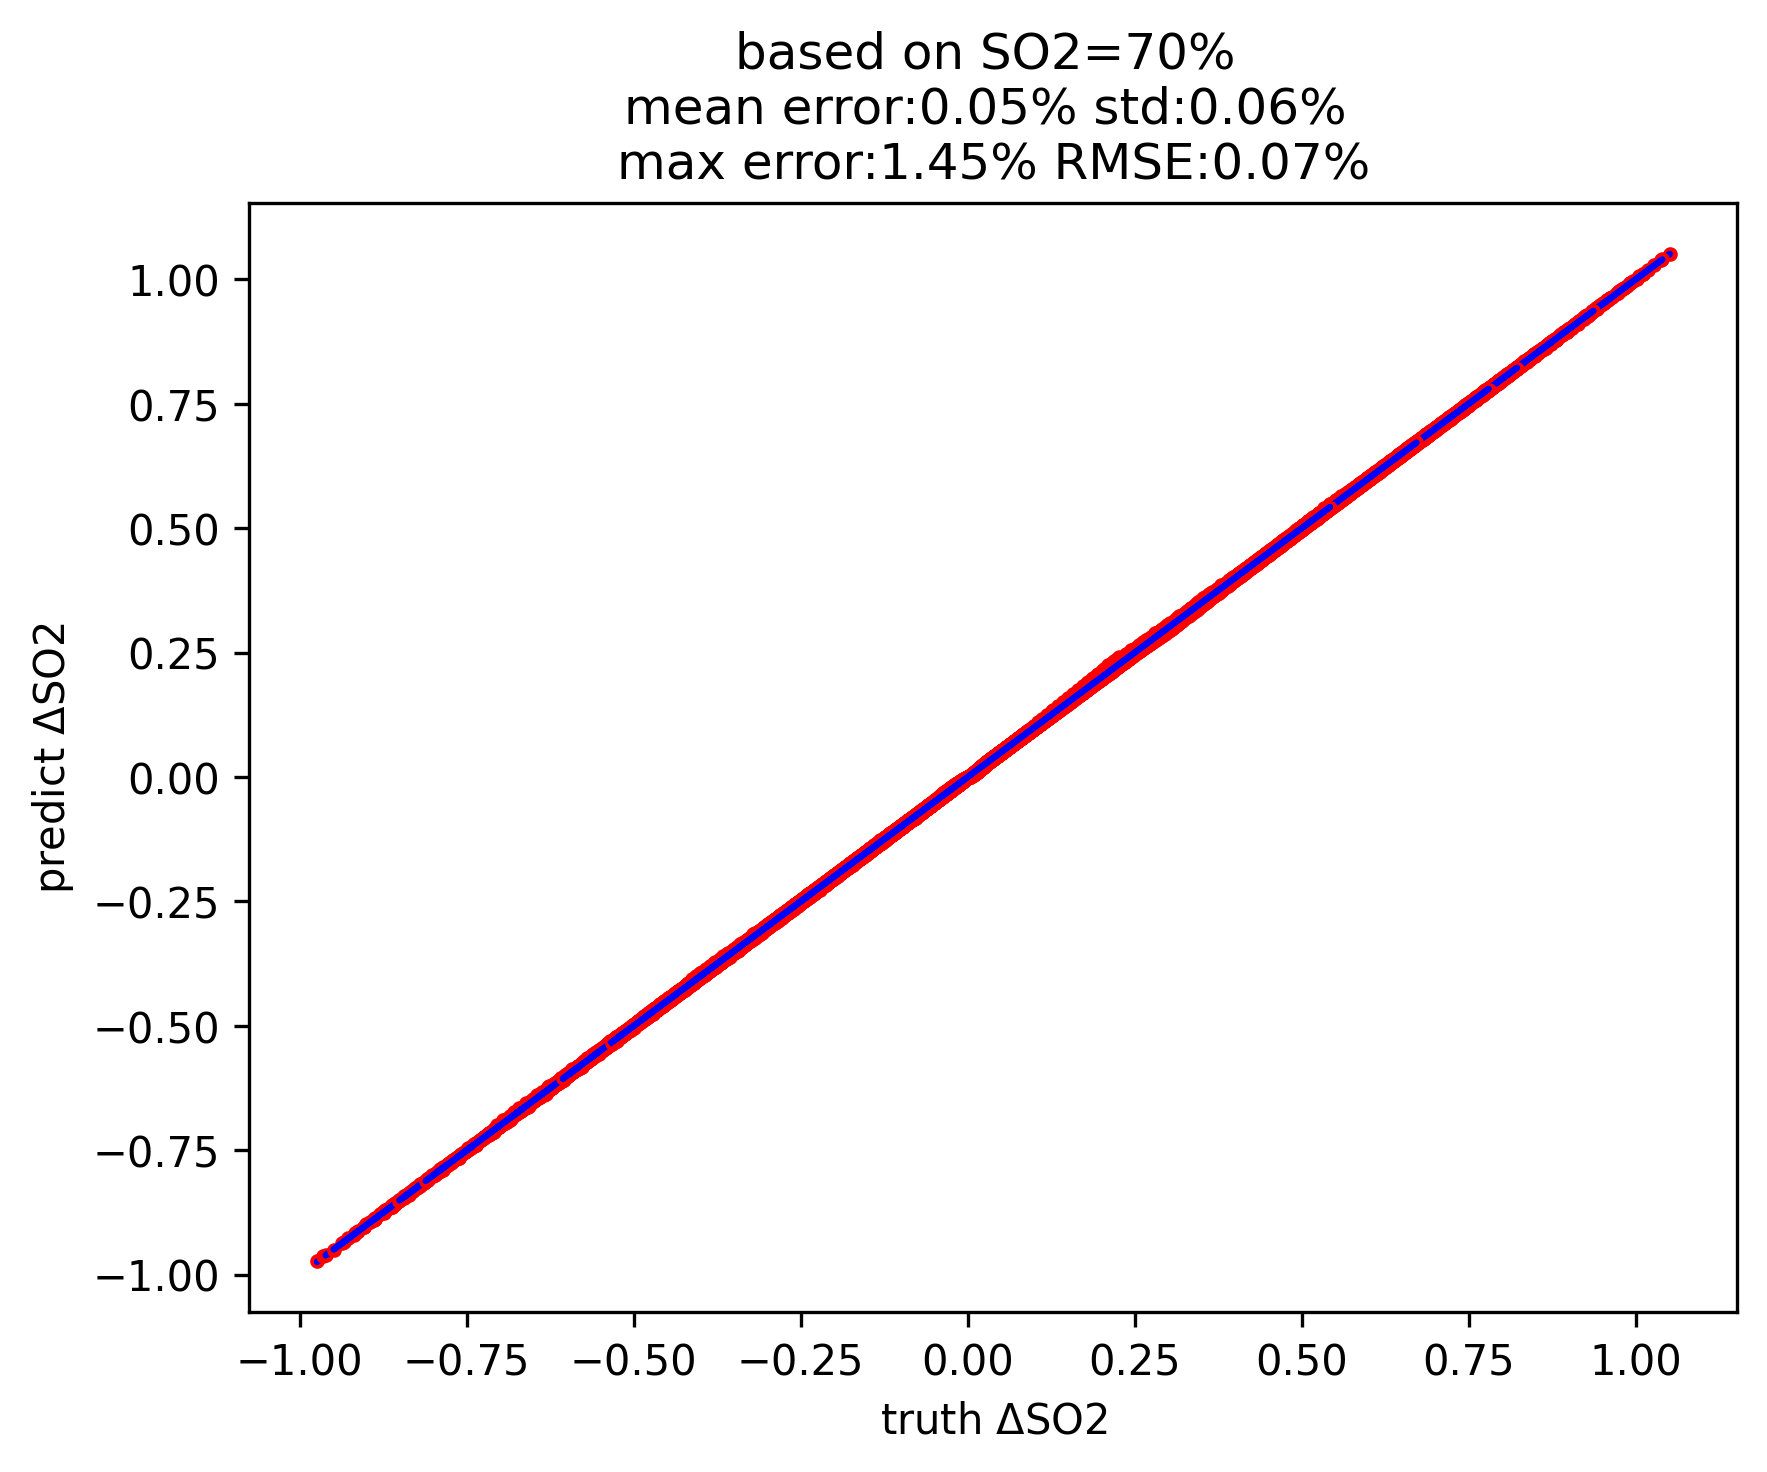
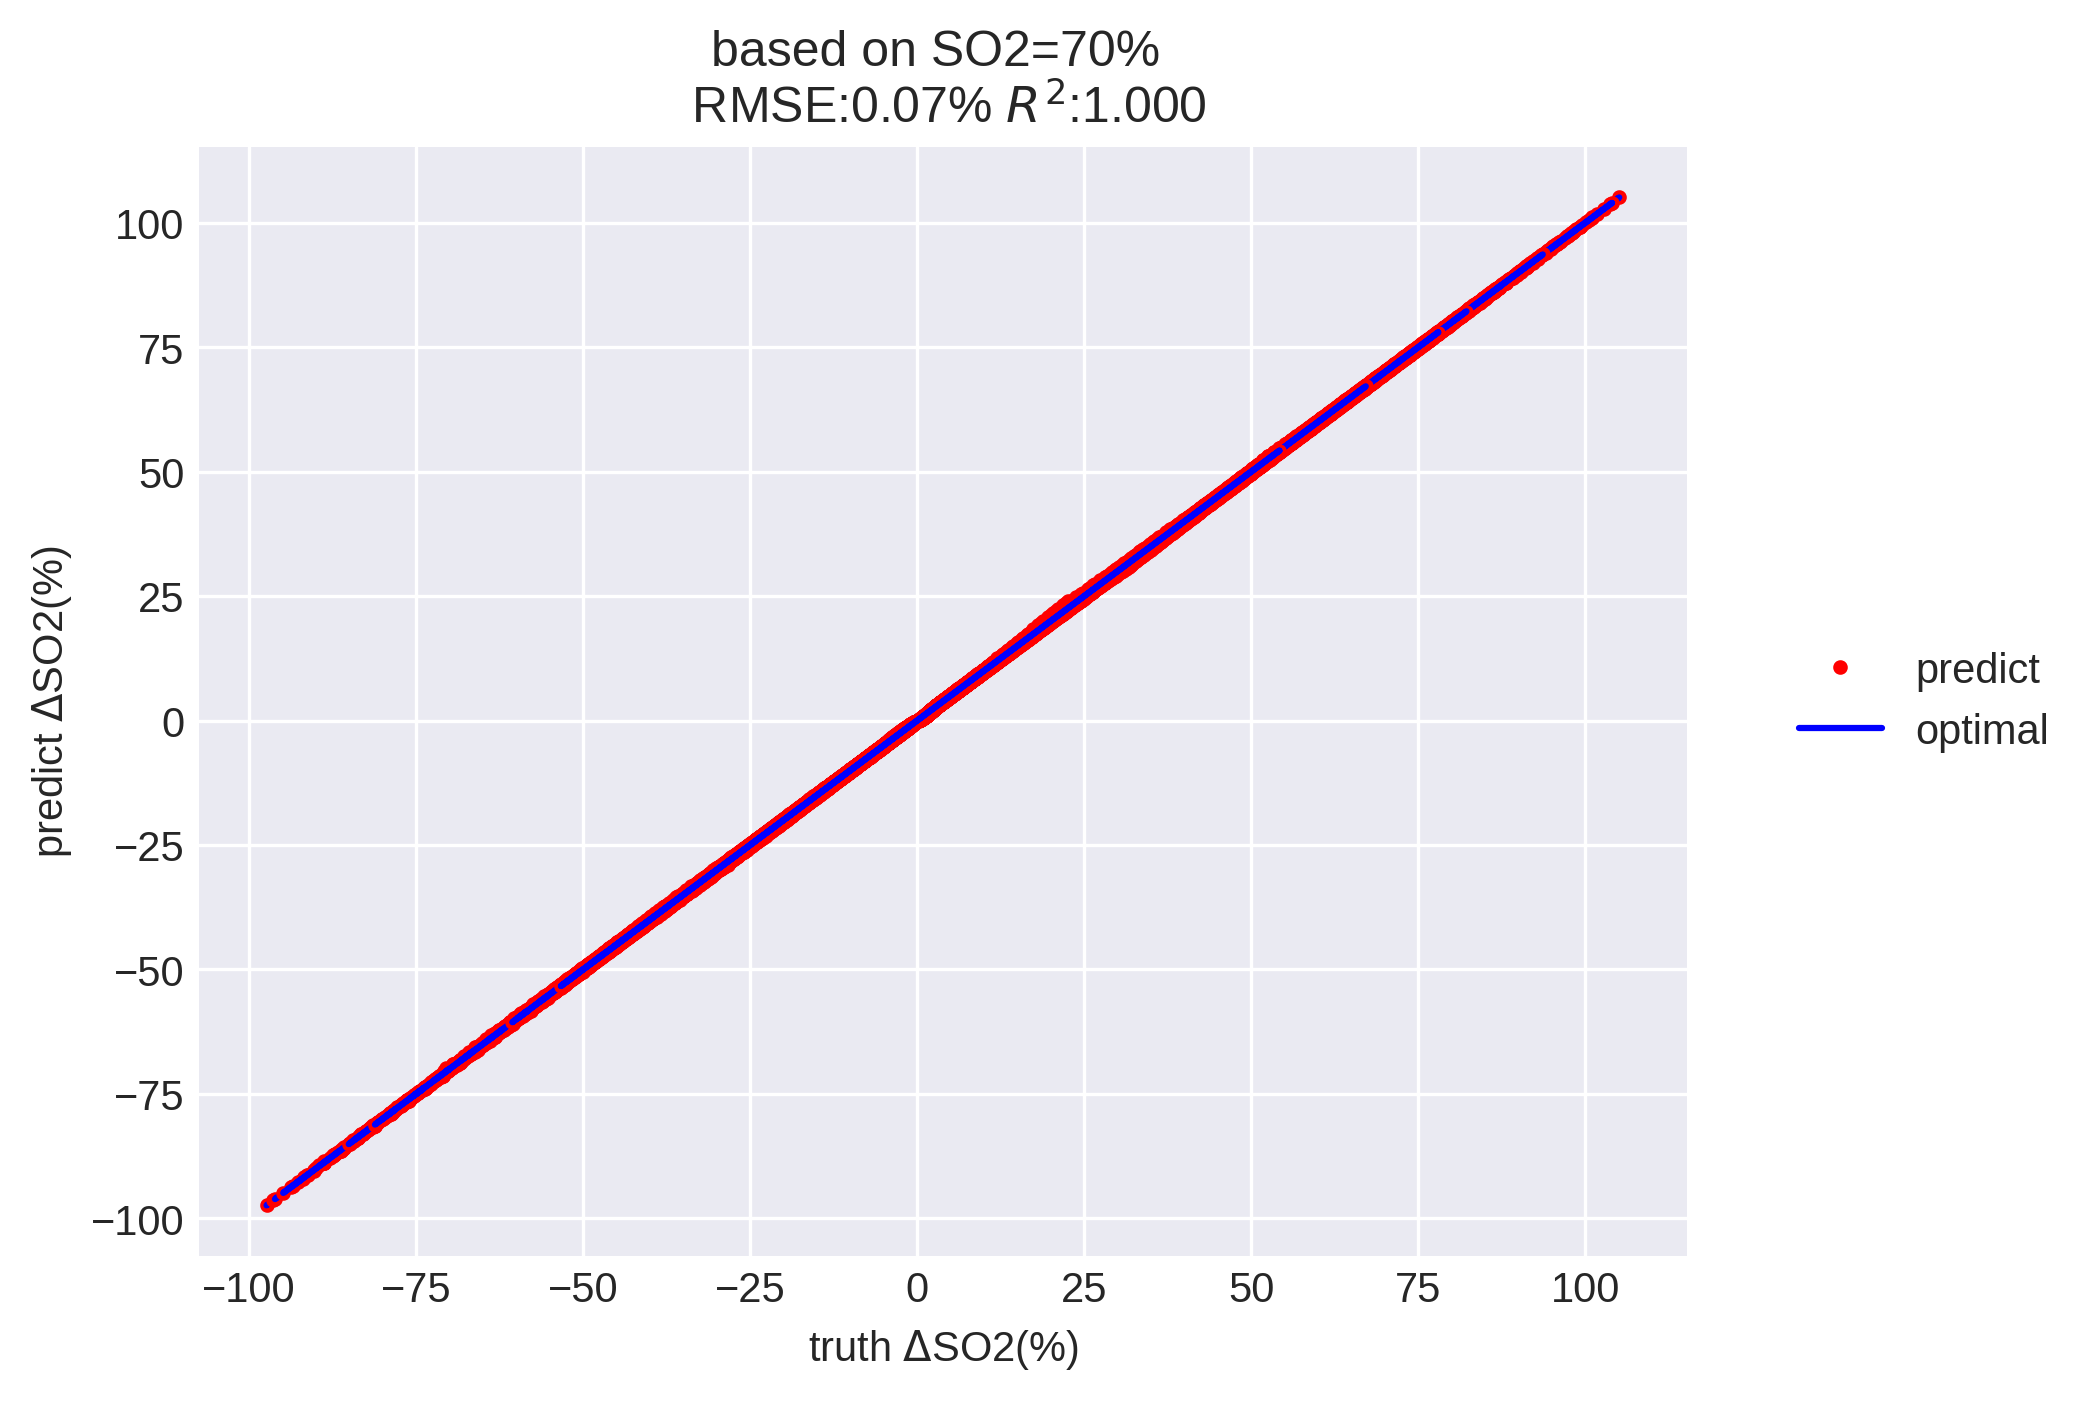
update

diff --git a/prediction_model/plot_result.py b/prediction_model/plot_result.py
@@ -5,7 +5,10 @@ import os
 import json
 import torch
 import numpy as np
-
+import matplotlib as mpl
+# Default settings
+mpl.rcParams.update(mpl.rcParamsDefault)
+plt.style.use("seaborn-darkgrid")
 # %%
 result_folder = "prediction_model_formula3"
 
@@ -21,30 +24,47 @@ model = PredictionModel3().cuda()
 model.load_state_dict(torch.load(config['best_model']))
 model.eval()
 
-# %%
-for batch_idx, (data,target, _,_,_) in enumerate(test_loader):
+def cal_R_square(y_true, y_pred):
+    y_bar = np.mean(y_true)
+    numerator = np.sum(np.square(y_true-y_pred))
+    denominator = np.sum(np.square(y_true-y_bar))
+    R_square = 1 - numerator/denominator
+    
+    return R_square
+#%%
+plt.figure()
+for batch_idx, (data,target, _, _, _) in enumerate(test_loader):
     data,target = data.to(torch.float32).cuda(), target.to(torch.float32).cuda()
     output = model(data)
     output = output.detach().cpu().numpy()
     target = target.detach().cpu().numpy()
     if batch_idx == 0:
-        error = 100*np.abs(output - target)
-        RMSE = 100*(output - target)
+        error = 100*(output - target)
+        accumulate_RMSE = 100*(output - target)
+        accumulate_output = output
+        accumulate_target = target
     else:
-        error = np.concatenate((error, 100*np.abs(output - target)))
-        RMSE = np.concatenate((RMSE, 100*(output - target)))
-    plt.plot(target,output, 'r.', markersize=5)
-    plt.plot(target,target,'b')
+        error = np.concatenate((error, 100*(output - target)))
+        accumulate_RMSE = np.concatenate((accumulate_RMSE, 100*(output - target)))
+        accumulate_output = np.concatenate((accumulate_output, output))
+        accumulate_target = np.concatenate((accumulate_target, target))
+    if batch_idx == 0:
+        plt.plot(target*100,output*100, 'r.', markersize=5, label= 'predict')
+        plt.plot(target*100,target*100,'b', label = 'optimal')
+    else:
+        plt.plot(target*100,output*100, 'r.', markersize=5)
+        plt.plot(target*100,target*100,'b')
 
-RMSE = np.sqrt(np.mean(np.square(RMSE)))
-mean = np.mean(error)
-std = np.std(error)
-max_error = np.max(error)
-plt.title(f"based on SO2=70% \nmean error:{mean:.2f}% std:{std:.2f}% \nmax error:{max_error:.2f}% RMSE:{RMSE:.2f}%")
-plt.xlabel("truth $\u0394$SO2")
-plt.ylabel("predict $\u0394$SO2")
+RMSE = np.sqrt(np.mean(np.square(accumulate_RMSE)))
+R_square = cal_R_square(y_true=accumulate_target, y_pred=accumulate_output)
+plt.title(f"based on SO2=70% \n RMSE:{RMSE:.2f}% $R^{2}$:{R_square:.3f}")
+plt.xlabel("truth $\u0394$SO2(%)")
+plt.ylabel("predict $\u0394$SO2(%)")
+plt.legend(loc='center left', bbox_to_anchor=(1.05, 0.5),
+          fancybox=True, shadow=True)
 plt.savefig(os.path.join("pic", result_folder, "RMSE.png"), dpi=300, format='png', bbox_inches='tight')
-plt.show()
+plt.close()
+# plt.show()
 
 # %%
 for batch_idx, (data,target, _,_,_) in enumerate(test_loader):
